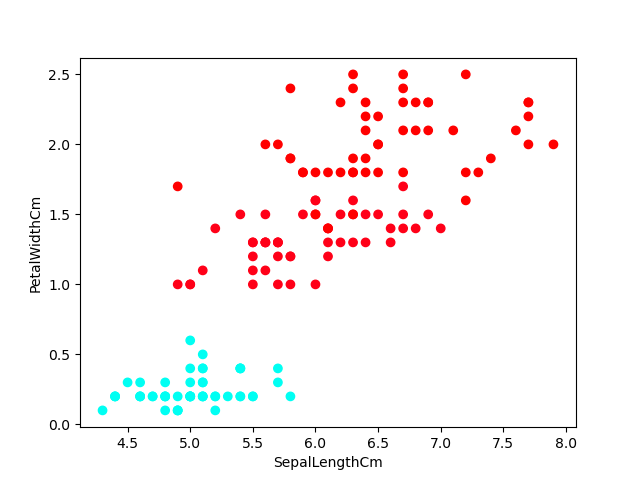
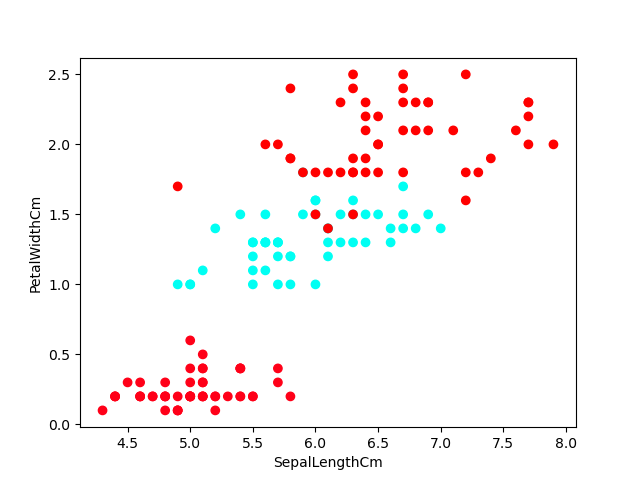
fixed scatter coloring

diff --git a/yy_final_exercise.py b/yy_final_exercise.py
@@ -2,15 +2,13 @@ import numpy as np
 import pandas as pd
 import matplotlib.pyplot as plt
 
-def demo(path):
 
+def demo(path):
     dataset = Dataset()
     dataset.load_from_path(path)
 
     print(f"Shape of dataset.data: {dataset.data.shape}")
     print(f"Length of the dataset object: {len(dataset)}")
-    print(dataset.column_names)
-    # print(dataset.labels)
     print(dataset)
 
     two_features = [0, 3]
@@ -32,7 +30,6 @@ def demo(path):
             print(f"no such label")
 
 
-
 class Dataset:
     def __init__(self, data=None, labels=None, column_names=None):
         self.data = data
@@ -51,12 +48,12 @@ class Dataset:
         self.labels = df.iloc[:, -1].values
         self.num_classes = len(set(self.labels))
 
-
     def __len__(self):
         return len(self.data)
 
     def __str__(self):
-        return f"A dataset object with {len(self.data)} observations, {len(self.column_names)} features and {self.num_classes} classes"
+        return (f"A dataset object with {len(self.data)} observations,"
+                f"{len(self.column_names)} features and {self.num_classes} classes")
 
     def __iter__(self):
         self.index = 0
@@ -83,14 +80,19 @@ class Dataset:
 
         # colors
         labels_set = set(self.labels)
-        get_cmap = plt.cm.get_cmap('hsv', len(labels_set))
-        colors = []
-        for label in self.labels:
-            for i, set_label in enumerate(labels_set):
-                if label == set_label:
-                    colors.append(get_cmap(i))
 
-        plt.scatter(x, y, c=colors)
+        colors_dict = {}
+
+        get_cmap = plt.cm.get_cmap('hsv', len(labels_set))
+
+        for i, label in enumerate(labels_set):
+            colors_dict[label] = get_cmap(i)
+
+        colors_list = []
+        for label in self.labels:
+            colors_list.append(colors_dict[label])
+
+        plt.scatter(x, y, c=colors_list)
         plt.xlabel(self.column_names[feature_indices[0]])
         plt.ylabel(self.column_names[feature_indices[1]])
         plt.savefig(path)
